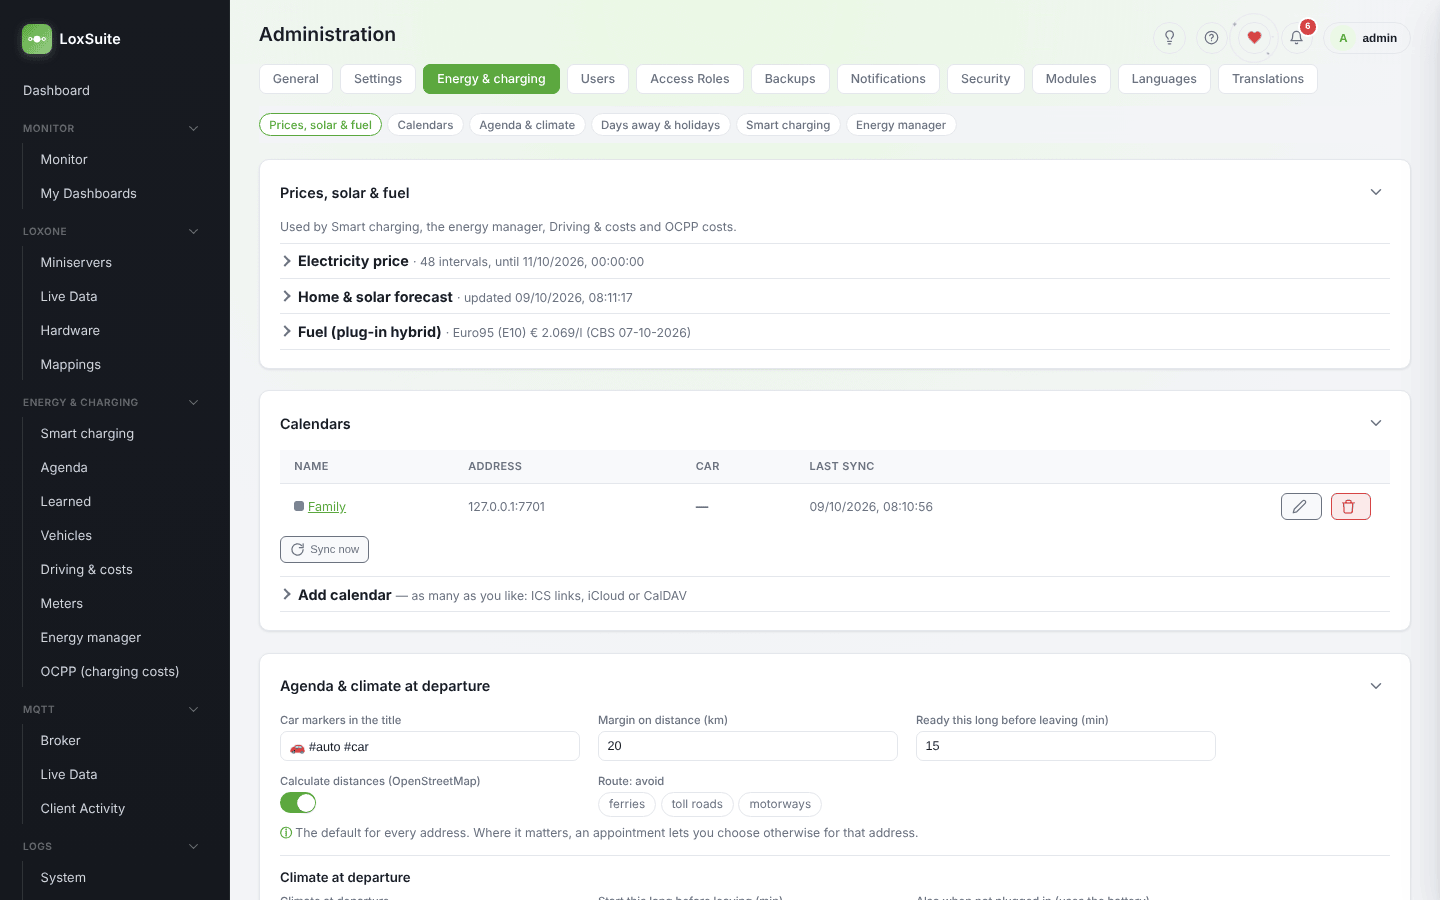
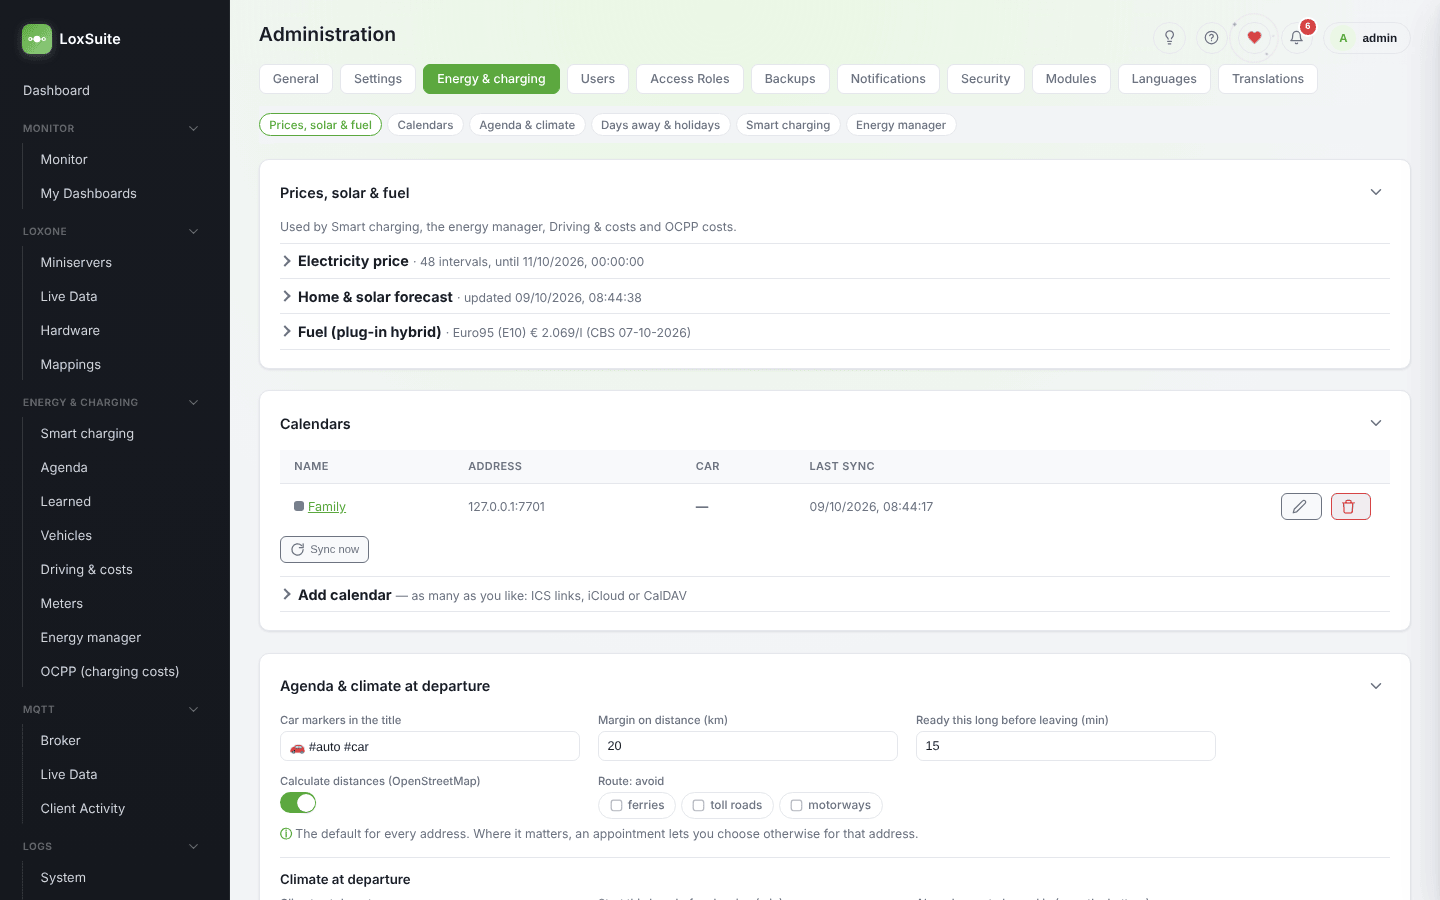
v0.54.1: a route without the ferry / toll roads / motorways via Valhalla (the public OSRM servers refuse exclude), so the distance follows and 'not possible' only shows when it is; chips keep their size when switched

diff --git a/gateway/src/agenda.js b/gateway/src/agenda.js
@@ -3,8 +3,8 @@
 // car when its title (or description) holds a car marker — 🚗 or #auto by default — or when you
 // switch "Car needed" on for it in LoxSuite (that choice is stored in LoxSuite only; the calendar
 // itself is never changed). For such appointments with an address, LoxSuite looks up the driving
-// distance from home (OpenStreetMap: Nominatim + OSRM; only the addresses of car appointments are
-// sent, results are cached), adds the margin (default 20 km), and turns it into kWh with the
+// distance from home (OpenStreetMap: Nominatim + OSRM, Valhalla for a route without ferries / toll
+// roads / motorways; only the addresses of car appointments are sent, results are cached), adds the margin (default 20 km), and turns it into kWh with the
 // car's consumption. The planner then makes sure the car is ready before you have to leave.
 //
 // How you drive: by default the car stays there (there at the start, back at the end). An
@@ -332,11 +332,13 @@ async function syncAll() {
 
 // ------------------------------------------------------------------ distance (OpenStreetMap)
 
-async function geoFetch(url) {
+// GET url (JSON back); with { body }: POST it as JSON (Valhalla).
+async function geoFetch(url, { body = null } = {}) {
   const ctrl = new AbortController();
   const t = setTimeout(() => ctrl.abort(), 15000);
   try {
-    const res = await fetch(url, { signal: ctrl.signal, headers: { 'User-Agent': 'LoxSuite (self-hosted home automation)', Accept: 'application/json' } });
+    const headers = { 'User-Agent': 'LoxSuite (self-hosted home automation)', Accept: 'application/json' };
+    const res = await fetch(url, body ? { method: 'POST', signal: ctrl.signal, headers: { ...headers, 'Content-Type': 'application/json' }, body: JSON.stringify(body) } : { signal: ctrl.signal, headers });
     if (!res.ok) throw new Error(`HTTP ${res.status}`);
     return await res.json();
   } catch (err) {
@@ -380,17 +382,44 @@ function routeFlags(r) {
   return ROUTE_CLASSES.filter((c) => s.has(c));
 }
 
-// The road route from → to (OSRM), avoiding `avoid`; when the server can't avoid them, the plain route
-// (its flags then show what it uses).
-async function osrmRoute(get, from, to, avoid = []) {
-  const base = `https://router.project-osrm.org/route/v1/driving/${from.lon},${from.lat};${to.lon},${to.lat}?overview=false&steps=true`;
-  let route = null;
-  if (avoid.length) route = await get(`${base}&exclude=${avoid.join(',')}`).catch(() => null);
-  if (!route?.routes?.[0]) route = await get(base);
+// Pure: which of ferry / toll / motorway a Valhalla route uses (its summary says so).
+function valhallaFlags(sum) {
+  const has = { ferry: sum?.has_ferry, toll: sum?.has_toll, motorway: sum?.has_highway };
+  return ROUTE_CLASSES.filter((c) => !!has[c]);
+}
+
+const OSRM_URL = 'https://router.project-osrm.org/route/v1/driving';
+const VALHALLA_URL = 'https://valhalla1.openstreetmap.de/route';
+
+// The road route from → to: { distance_km, duration_min, route_flags }. Without anything to avoid OSRM,
+// as always. Avoiding ferries / toll roads / motorways: the public OSRM servers can't (they refuse
+// "exclude"), so Valhalla (FOSSGIS, OpenStreetMap too) with "don't use" for each of them; it still
+// takes one where there is no other way (e.g. an island) — the flags then show it. Valhalla not
+// reachable: an OSRM server that can exclude, else the plain route (its flags show what it uses).
+async function roadRoute(get, from, to, avoid = []) {
+  const base = `${OSRM_URL}/${from.lon},${from.lat};${to.lon},${to.lat}?overview=false&steps=true`;
+  const fromOsrm = (r) => ({ distance_km: Math.round(r.distance / 100) / 10, duration_min: Math.round(r.duration / 60), route_flags: routeFlags(r).join(',') });
+  if (avoid.length) {
+    const auto = {};
+    if (avoid.includes('ferry')) auto.use_ferry = 0;
+    if (avoid.includes('toll')) auto.use_tolls = 0;
+    if (avoid.includes('motorway')) auto.use_highways = 0;
+    const body = { locations: [{ lat: Number(from.lat), lon: Number(from.lon) }, { lat: Number(to.lat), lon: Number(to.lon) }], costing: 'auto', costing_options: { auto }, directions_type: 'none', units: 'kilometers' };
+    const v = await get(VALHALLA_URL, { body }).catch(() => null);
+    const sum = v?.trip?.summary;
+    if (sum && Number.isFinite(Number(sum.length)) && Number.isFinite(Number(sum.time))) {
+      // '' = looked at, none of them (NULL: an older lookup that didn't look)
+      return { distance_km: Math.round(Number(sum.length) * 10) / 10, duration_min: Math.round(Number(sum.time) / 60), route_flags: valhallaFlags(sum).join(',') };
+    }
+    const ex = await get(`${base}&exclude=${avoid.join(',')}`).catch(() => null);
+    if (ex?.routes?.[0]) return fromOsrm(ex.routes[0]);
+  }
+  const route = await get(base);
   const r = route?.routes?.[0];
   if (!r) throw new Error('No route found.');
-  // '' = looked at, none of them (NULL: an older lookup that didn't look)
-  return { distance_km: Math.round(r.distance / 100) / 10, duration_min: Math.round(r.duration / 60), route_flags: routeFlags(r).join(',') };
+  // couldn't ask for the route without them: the plain one, with a note (stored as the lookup's error,
+  // so it is tried again after a while — the distance is used meanwhile)
+  return avoid.length ? { ...fromOsrm(r), note: 'Route options not applied: the route service could not be reached.' } : fromOsrm(r);
 }
 
 async function routePrefs() { return settings.get('route_prefs', {}); }
@@ -464,8 +493,8 @@ async function distanceFromHome(address, { get = geoFetch, force = false, avoid 
     if (!found?.length) throw new Error('Address not found.');
     const lat = Number(found[0].lat);
     const lon = Number(found[0].lon);
-    const r = await osrmRoute(get, { lat: site.lat, lon: site.lon }, { lat, lon }, avoid);
-    row = { query: key, lat, lon, ...r, error: null, fetched_at: new Date().toISOString() };
+    const { note, ...r } = await roadRoute(get, { lat: site.lat, lon: site.lon }, { lat, lon }, avoid);
+    row = { query: key, lat, lon, ...r, error: note || null, fetched_at: new Date().toISOString() };
   } catch (err) {
     row = { query: key, lat: null, lon: null, distance_km: null, duration_min: null, route_flags: null, error: err.message, fetched_at: new Date().toISOString() };
   }
@@ -778,7 +807,8 @@ function legOf(a, b, cached = null) {
   const ia = a.item;
   const ib = b.item;
   if (ia === ib || (ia.location && normAddr(ia.location) === normAddr(ib.location))) return { km: 0, min: 0 };
-  if (cached && !cached.error && Number.isFinite(cached.distance_km)) return { km: cached.distance_km, min: Number.isFinite(cached.duration_min) ? cached.duration_min : Math.round(cached.distance_km / 50 * 60) };
+  // (a lookup with a note — route options not applied — still has its distance)
+  if (cached && Number.isFinite(cached.distance_km)) return { km: cached.distance_km, min: Number.isFinite(cached.duration_min) ? cached.duration_min : Math.round(cached.distance_km / 50 * 60) };
   if ([ia.lat, ia.lon, ib.lat, ib.lon].every(Number.isFinite)) {
     const km = Math.round(crowKm(ia, ib) * 1.3 * 10) / 10;
     return { km, min: Math.round(km / 50 * 60), approx: true };
@@ -862,8 +892,8 @@ async function fetchLeg(ia, ib, { get = geoFetch, avoid = [] } = {}) {
     const wait = 1100 - (Date.now() - lastGeoAt);
     if (wait > 0) await new Promise((r) => setTimeout(r, wait));
     lastGeoAt = Date.now();
-    const r = await osrmRoute(get, ia, ib, avoid);
-    row = { query: key, lat: ib.lat, lon: ib.lon, ...r, error: null, fetched_at: new Date().toISOString() };
+    const { note, ...r } = await roadRoute(get, ia, ib, avoid);
+    row = { query: key, lat: ib.lat, lon: ib.lon, ...r, error: note || null, fetched_at: new Date().toISOString() };
   } catch (err) {
     row = { query: key, lat: ib.lat, lon: ib.lon, distance_km: null, duration_min: null, route_flags: null, error: err.message, fetched_at: new Date().toISOString() };
   }
@@ -1003,6 +1033,6 @@ function stopAgenda() {
 }
 
 module.exports = {
-  DEFAULTS, TRIP_MODES, ROUTE_CLASSES, cleanVehicle, addrKey, avoidFor, routeFlags, osrmRoute, routePrefs, setRoutePref, seriesName, nameKey, seriesIndexOf, seriesRowOf, hasCarTag, parseCarHint, parseTripTag, parseOwnValue, tripNeedKwh, stopsOf, chainStops, legOf, routeNeed, routeOf, crowKm, cleanMode, cleanFlag, cleanChain, tours, fetchLeg, icsUrl, expandEvents, tripOccurrences,
+  DEFAULTS, TRIP_MODES, ROUTE_CLASSES, cleanVehicle, addrKey, avoidFor, routeFlags, valhallaFlags, roadRoute, routePrefs, setRoutePref, seriesName, nameKey, seriesIndexOf, seriesRowOf, hasCarTag, parseCarHint, parseTripTag, parseOwnValue, tripNeedKwh, stopsOf, chainStops, legOf, routeNeed, routeOf, crowKm, cleanMode, cleanFlag, cleanChain, tours, fetchLeg, icsUrl, expandEvents, tripOccurrences,
   addressCandidates, icsName, fetchIcs, getConfig, listCalendars, addCalendar, updateCalendar, syncCalendar, syncAll, distanceFromHome, items, setOverride, parseClimate, nextCarTrip, startAgenda, stopAgenda, resolveUpcomingDistances,
 };

diff --git a/gateway/test/agendaRouteOptions.test.js b/gateway/test/agendaRouteOptions.test.js
@@ -47,24 +47,51 @@ test('routeFlags: a ferry step, toll and motorway from the road classes; other c
   assert.deepEqual(agenda.routeFlags(null), []);
 });
 
-test('osrmRoute: asks without what it avoids; a server that can\'t falls back to the plain route', async () => {
-  const urls = [];
-  const ferryRoute = { routes: [{ distance: 41200, duration: 3000, legs: [{ steps: [{ mode: 'ferry' }] }] }] };
-  const around = { routes: [{ distance: 128000, duration: 5400, legs: [{ steps: [{ mode: 'driving', intersections: [{ classes: ['motorway'] }] }] }] }] };
-  let r = await agenda.osrmRoute(async (u) => { urls.push(u); return /exclude=ferry/.test(u) ? around : ferryRoute; }, { lat: 52, lon: 5 }, { lat: 53, lon: 4.8 }, ['ferry']);
-  assert.deepEqual(r, { distance_km: 128, duration_min: 90, route_flags: 'motorway' });
-  assert.match(urls[0], /steps=true&exclude=ferry$/);
-  // exclude not supported (an error): the plain route, which shows it still takes the ferry
-  urls.length = 0;
-  r = await agenda.osrmRoute(async (u) => { urls.push(u); if (/exclude/.test(u)) throw new Error('InvalidValue'); return ferryRoute; }, { lat: 52, lon: 5 }, { lat: 53, lon: 4.8 }, ['ferry']);
-  assert.deepEqual(r, { distance_km: 41.2, duration_min: 50, route_flags: 'ferry' });
-  assert.equal(urls.length, 2);
-  // nothing to avoid: one request; '' = looked, none of them
-  urls.length = 0;
-  r = await agenda.osrmRoute(async (u) => { urls.push(u); return { routes: [{ distance: 5000, duration: 600, legs: [] }] }; }, { lat: 52, lon: 5 }, { lat: 52.1, lon: 5 });
+test('roadRoute: OSRM without options; avoiding something via Valhalla, else an OSRM that can, else the plain route', async () => {
+  const calls = [];
+  // Bergen (L) → Vierlingsbeek, as the servers answered (October 2026): OSRM takes the ferry over the
+  // Maas (2.3 km) and refuses "exclude=ferry" (InvalidValue); Valhalla without ferries goes over the
+  // bridge at Well (18.7 km)
+  const bergen = { lat: 51.6, lon: 6.0467 };
+  const vierlingsbeek = { lat: 51.5958, lon: 6.0144 };
+  const ferryRoute = { routes: [{ distance: 2344.5, duration: 419.3, legs: [{ steps: [{ mode: 'driving' }, { mode: 'ferry', name: 'Veerdienst Vierlingsbeek – Bergen' }, { mode: 'driving' }] }] }] };
+  const viaWell = { trip: { status: 0, summary: { length: 18.728, time: 1652.014, has_ferry: false, has_toll: false, has_highway: false } } };
+  const from = { lat: 52, lon: 5 };
+  const to = { lat: 53, lon: 4.8 };
+  // nothing to avoid: one OSRM request
+  let r = await agenda.roadRoute(async (u, o) => { calls.push([u, o]); return ferryRoute; }, bergen, vierlingsbeek);
+  assert.deepEqual(r, { distance_km: 2.3, duration_min: 7, route_flags: 'ferry' });
+  assert.equal(calls.length, 1);
+  assert.equal(calls[0][0], 'https://router.project-osrm.org/route/v1/driving/6.0467,51.6;6.0144,51.5958?overview=false&steps=true');
+  // without the ferry: Valhalla, "don't use ferries" — over the bridge
+  calls.length = 0;
+  r = await agenda.roadRoute(async (u, o) => { calls.push([u, o]); return /valhalla/.test(u) ? viaWell : ferryRoute; }, bergen, vierlingsbeek, ['ferry', 'toll']);
+  assert.deepEqual(r, { distance_km: 18.7, duration_min: 28, route_flags: '' });
+  assert.equal(calls.length, 1);
+  assert.equal(calls[0][0], 'https://valhalla1.openstreetmap.de/route');
+  assert.deepEqual(calls[0][1].body.costing_options, { auto: { use_ferry: 0, use_tolls: 0 } });
+  assert.deepEqual(calls[0][1].body.locations, [{ lat: 51.6, lon: 6.0467 }, { lat: 51.5958, lon: 6.0144 }]);
+  // nothing in between: '' = looked, none of them
+  r = await agenda.roadRoute(async () => ({ routes: [{ distance: 5000, duration: 600, legs: [] }] }), from, { lat: 52.1, lon: 5 });
   assert.equal(r.route_flags, '');
-  assert.equal(urls.length, 1);
-  assert.doesNotMatch(urls[0], /exclude/);
+  // no way round (an island): Valhalla still takes the ferry, and says so
+  r = await agenda.roadRoute(async () => ({ trip: { summary: { length: 41.2, time: 3000, has_ferry: true } } }), from, to, ['ferry']);
+  assert.equal(r.route_flags, 'ferry');
+  // Valhalla not reachable: an OSRM server that can exclude…
+  calls.length = 0;
+  const osrmEx = { routes: [{ distance: 99000, duration: 4200, legs: [] }] };
+  r = await agenda.roadRoute(async (u) => { calls.push([u]); if (/valhalla/.test(u)) throw new Error('HTTP 503'); return /exclude=ferry/.test(u) ? osrmEx : ferryRoute; }, from, to, ['ferry']);
+  assert.deepEqual([r.distance_km, calls.length], [99, 2]);
+  // …else the plain route, which shows it still takes the ferry
+  r = await agenda.roadRoute(async (u) => { if (/valhalla|exclude/.test(u)) throw new Error('InvalidValue'); return ferryRoute; }, bergen, vierlingsbeek, ['ferry']);
+  assert.deepEqual(r, { distance_km: 2.3, duration_min: 7, route_flags: 'ferry', note: 'Route options not applied: the route service could not be reached.' });
+  await assert.rejects(agenda.roadRoute(async () => ({ routes: [] }), from, to), /No route found/);
+});
+
+test('valhallaFlags: has_ferry / has_toll / has_highway', () => {
+  assert.deepEqual(agenda.valhallaFlags({ has_ferry: true, has_toll: false, has_highway: true }), ['ferry', 'motorway']);
+  assert.deepEqual(agenda.valhallaFlags({}), []);
+  assert.deepEqual(agenda.valhallaFlags(null), []);
 });
 
 test('setRoutePref: avoid, allow or back to the default — per kind, per address', async () => {
@@ -81,8 +108,8 @@ test('distanceFromHome: one cached route per set of options, the address looked 
   const get = async (u) => {
     calls.push(u);
     if (u.includes('nominatim')) return [{ lat: '53.05', lon: '4.8' }];
-    return /exclude=ferry/.test(u)
-      ? { routes: [{ distance: 128000, duration: 5400, legs: [] }] }
+    return /valhalla/.test(u)
+      ? { trip: { summary: { length: 128, time: 5400, has_ferry: false } } }
       : { routes: [{ distance: 41200, duration: 3000, legs: [{ steps: [{ mode: 'ferry' }] }] }] };
   };
   const plain = await agenda.distanceFromHome('Haven 5, Texel', { get });
@@ -91,6 +118,11 @@ test('distanceFromHome: one cached route per set of options, the address looked 
   const without = await agenda.distanceFromHome('Haven 5, Texel', { get });
   assert.deepEqual([without.distance_km, without.route_flags, without.query], [128, '', 'haven 5, texel|52.0000,5.0000|x:ferry']);
   assert.equal(calls.filter((u) => u.includes('nominatim')).length, 1, 'the coordinates from the first lookup');
+  // the route service down: the plain route with a note (tried again later), the distance used meanwhile
+  await agenda.setRoutePref('Haven 5, Texel', { toll: true });
+  const down = await agenda.distanceFromHome('Haven 5, Texel', { get: async (u) => { if (/valhalla|exclude/.test(u)) throw new Error('HTTP 503'); return get(u); } });
+  assert.deepEqual([down.distance_km, down.route_flags, down.error], [41.2, 'ferry', 'Route options not applied: the route service could not be reached.']);
+  await agenda.setRoutePref('Haven 5, Texel', { toll: null });
   // both stay cached: back to the ferry costs no request
   await agenda.setRoutePref('Haven 5, Texel', { ferry: null });
   const n = calls.length;

diff --git a/gateway/public/style.css b/gateway/public/style.css
@@ -4928,14 +4928,20 @@ details.mod-status[open] > summary::before { transform: rotate(45deg); vertical-
 .chip { display: inline-block; padding: 0.05rem 0.5rem; border-radius: 999px; font-size: 0.74rem; border: 1px solid currentColor; line-height: 1.5; margin: 0 0.25rem 0.25rem 0; white-space: nowrap; }
 
 /* Chip checkboxes: a set of options that can each be on or off (e.g. what a route avoids); more
-   options just wrap onto the next line. */
+   options just wrap onto the next line. A chip keeps its size either way (same weight, fixed height,
+   the tick box always there), so the chips next to it don't move. */
 .chip-checks { display: flex; flex-wrap: wrap; gap: 0.3rem; }
 .chip-checks label { display: inline-flex; margin: 0; font-weight: 400; cursor: pointer; position: relative; }
 .chip-checks input { position: absolute; opacity: 0; width: 1px; height: 1px; margin: 0; }
-.chip-checks span { border: 1px solid var(--border); border-radius: 999px; padding: 0.28rem 0.7rem; font-size: 0.82rem; line-height: 1.3; background: var(--surface, #fff); white-space: nowrap; }
-.chip-checks input:checked + span { background: var(--accent); border-color: var(--accent); color: #fff; font-weight: 600; }
-.chip-checks input:checked + span::before { content: '✓ '; }
+.chip-checks span { display: inline-flex; align-items: center; gap: 0.35rem; height: 1.9rem; box-sizing: border-box; border: 1px solid var(--border); border-radius: 999px; padding: 0 0.75rem; font-size: 0.82rem; font-weight: 500; line-height: 1; background: var(--surface, #fff); white-space: nowrap; }
+.chip-checks input:checked + span { background: var(--accent); border-color: var(--accent); color: #fff; }
 .chip-checks input:focus-visible + span { outline: 2px solid var(--accent); outline-offset: 2px; }
+/* the box of an on/off chip: a rounded square, the tick only when on */
+.chip-tick { flex: 0 0 auto; width: 0.9rem; height: 0.9rem; }
+.chip-tick rect { fill: none; stroke: currentColor; stroke-width: 1.5; opacity: 0.5; }
+.chip-tick path { fill: none; stroke: currentColor; stroke-width: 2; stroke-linecap: round; stroke-linejoin: round; opacity: 0; }
+.on > .chip-tick rect, input:checked + span > .chip-tick rect { opacity: 0.9; }
+.on > .chip-tick path, input:checked + span > .chip-tick path { opacity: 1; }
 
 /* A colour as a small square (a calendar's colour) instead of a full-width bar; clicking it opens the
    browser's own colour picker. Also inside a .form-grid (whose inputs are otherwise full width). */

diff --git a/dev/screenshots/offline-stubs.js b/dev/screenshots/offline-stubs.js
@@ -70,6 +70,8 @@ globalThis.fetch = async (input, init) => {
   if (host === 'opendata.cbs.nl') return cbs();
   if (host === 'nominatim.openstreetmap.org') return json([{ lat: '52.156', lon: '5.387' }]);
   if (host === 'router.project-osrm.org') return json({ routes: [{ distance: 46800, duration: 2460 }] });
+  // a route avoiding something (ferry / toll / motorway): a longer way round
+  if (host === 'valhalla1.openstreetmap.de') return json({ trip: { status: 0, summary: { length: 61.3, time: 3180, has_ferry: false, has_toll: false, has_highway: true } } });
   if (host === 'api.github.com' || host === 'raw.githubusercontent.com') return new Response('[]', { status: 200, headers: { 'Content-Type': 'application/json' } });
   if (/^(127\.0\.0\.1|localhost)(:\d+)?$/.test(host)) return realFetch(input, init);
   return new Response('offline (screenshot run)', { status: 503 });

diff --git a/gateway/src/db/migrations/040_route_options_again.js b/gateway/src/db/migrations/040_route_options_again.js
@@ -1,0 +1,7 @@
+// v0.54.1: a route without a ferry / toll roads / motorways is now asked from Valhalla — the public OSRM
+// servers refuse "exclude", so v0.54.0 cached the plain route for those (same distance). Forget them;
+// they are looked up again (in the background, or when the agenda asks).
+exports.up = async function up(knex) {
+  if (await knex.schema.hasTable('geo_cache')) await knex('geo_cache').where('query', 'like', '%|x:%').del();
+};
+exports.down = async function down() {};

diff --git a/README.md b/README.md
@@ -7,7 +7,7 @@
      since this repo only publishes git tags, not GitHub Releases) — bump it alongside CHANGELOG.md
      and package.json on every version release. -->
 [![Latest version](https://img.shields.io/github/v/tag/DaveRutten/LoxSuite?sort=semver&label=version)](https://github.com/DaveRutten/LoxSuite/tags)
-[![Commits since latest tag](https://img.shields.io/github/commits-since/DaveRutten/LoxSuite/v0.54.0-alpha.1)](https://github.com/DaveRutten/LoxSuite/commits/main)
+[![Commits since latest tag](https://img.shields.io/github/commits-since/DaveRutten/LoxSuite/v0.54.1-alpha.1)](https://github.com/DaveRutten/LoxSuite/commits/main)
 [![Open issues](https://img.shields.io/github/issues/DaveRutten/LoxSuite)](https://github.com/DaveRutten/LoxSuite/issues)
 [![License](https://img.shields.io/github/license/DaveRutten/LoxSuite)](LICENSE)
 
@@ -790,8 +790,8 @@ add; also Nextcloud, Fastmail and other CalDAV servers. Addresses and passwords 
 only reads. A calendar's name, colour and car can be changed in the settings (in LoxSuite only). An appointment needs the car when its title
 holds a marker (🚗 / #auto by default) or when you switch *Car needed* on in LoxSuite (stored in LoxSuite only).
 Hints like `🚗 120 km`, `🚗 30 kWh` or `🚗 full` are understood. For car appointments with an address LoxSuite
-looks up the driving distance and time from home (OpenStreetMap Nominatim + OSRM; only those addresses are sent,
-results cached), adds the margin (default 20 km) and turns it into kWh; the planner makes sure the car is ready
+looks up the driving distance and time from home (OpenStreetMap Nominatim + OSRM, Valhalla for a route without
+ferries / toll roads / motorways; only those addresses are sent, results cached), adds the margin (default 20 km) and turns it into kWh; the planner makes sure the car is ready
 before you have to leave. **Route options**: by default the shortest route, or avoid ferries, toll roads and/or
 motorways for every address (agenda settings); where an appointment's route takes one of them (or you avoid it),
 the appointment shows a chip like *without the ferry* to choose otherwise for that address — on or off, ↺ back to

diff --git a/CHANGELOG.md b/CHANGELOG.md
@@ -2,6 +2,26 @@
 
 All notable changes to this project are documented in this file.
 
+## [0.54.1-alpha.1] - 2026-10-09
+
+### Fixed
+- **"Without the ferry" didn't change the distance, and said no route without it was possible** (asked: "the
+  distance doesn't seem to be calculated again when I choose without the ferry" — "it says a route isn't possible
+  without the ferry, but that's nonsense: Bergen (L) to Vierlingsbeek can take the ferry, but also the bridge at
+  Well"): the public OSRM servers refuse to leave out ferries, toll roads or motorways ("Exclude flag combination
+  is not supported"), so LoxSuite got the plain route back. A route that avoids something is now asked from
+  **Valhalla** (the FOSSGIS server, OpenStreetMap data too), which says per route whether it still takes a
+  ferry, toll road or motorway — Bergen (L) → Vierlingsbeek: 2.3 km with the ferry, 18.7 km over the bridge at
+  Well without. Without route options it stays OSRM, as before. Distance, travel time, kWh and leave time follow;
+  routes cached by 0.54.0 with route options are looked up again.
+  - *Not possible on this route* now only shows when there really is no other way (an island). When the route
+    service can't be reached, the appointment says so instead, keeps the plain route's distance meanwhile and
+    tries again later.
+- **Chips keep their size** (asked: "the button size still jumps when I switch it on or off, like the ferry —
+  mainly the height"): every chip has the same height and weight on or off, and an on/off chip (*without the
+  ferry*, *Route: avoid* in the settings) has its tick box there both ways — only the tick appears. The first
+  letter of each chip and the chips next to it stay where they are.
+
 ## [0.54.0-alpha.1] - 2026-10-09
 
 ### Added
